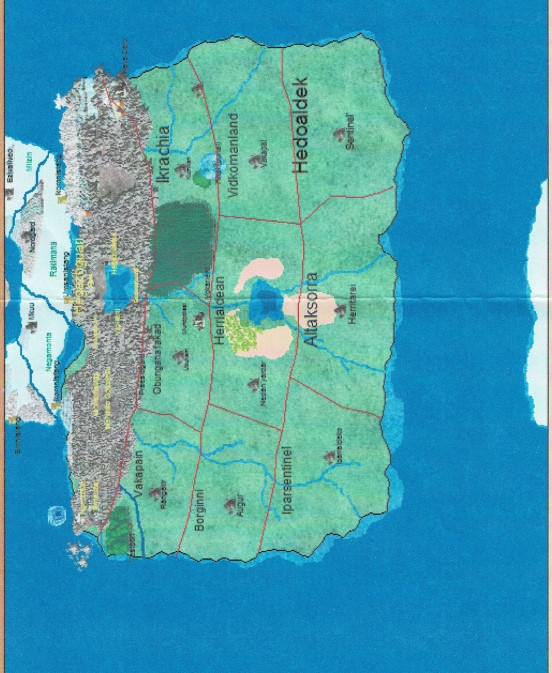
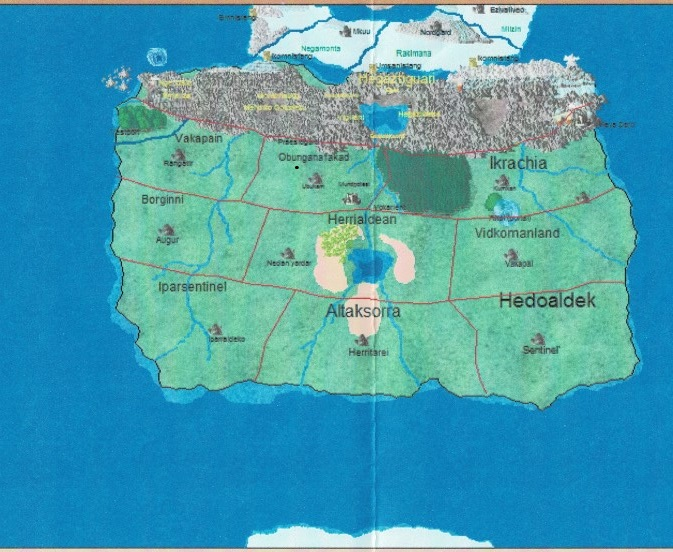
фввув ьфз

diff --git a/index.html b/index.html
@@ -24,6 +24,7 @@
             <a href="#analogues" class="nav-link">Референсы</a>
             <a href="#conlang" class="nav-link">Искусственные языки</a>
             <a href="#metal-opera" class="nav-link">Метал-опера</a>
+            <a href="#world-map" class="nav-link">Карта</a>
             <a href="#author" class="nav-link">Автор и контакты</a>
         </div>
         <div class="hamburger" id="hamburger">
@@ -66,7 +67,7 @@
         <div class="annotation">
             <div class="annotation-content">
                 <p class="annotation-text">
-                    <span class="annotation-highlight">Мир из рукописи затравленной заики Гелены ожил.</span>
+                    <span class="annotation-highlight">Мир из рукописи затравленной заики Гелены ожил</span>
                 </p>
                 
                 <p class="annotation-text">
@@ -94,7 +95,7 @@
             <div class="about-card">
                 <i class="fas fa-map-marked-alt"></i>
                 <h3>Места действия</h3>
-                <p>Выдуманный мир Супериора • Домодедово • Москва</p>
+                <p>Выдуманный мир Супериора • Москва • Домодедово</p>
             </div>
             <div class="about-card">
                 <i class="fas fa-dragon"></i>
@@ -1021,7 +1022,7 @@
                 </div>
             </div>
             <div class="opera-description">
-                <p>В рамках вселенной "Книги Мироздания" я создала полноценную метал-оперу «Чернобог», написанную для вымышленной группы «Розарити». Хотя в первой книге опера упоминается лишь фрагментарно, её сюжет и символика играют решающую роль в развитии событий 4, 5 и 6 книг эпопеи.</p>
+                <p>В рамках вселенной "Книги Мироздания" я создала полноценную метал-оперу «Чернобог» по воссозданному мной по летописям мифу о Чернобоге (1-7 песни, дальше - фантазия), написанную для вымышленной группы «Розарити». Хотя в первой книге опера упоминается лишь фрагментарно, её сюжет и символика играют решающую роль в развитии событий 4, 5 и 6 книг эпопеи.</p>
                 <p>«Чернобог» рассказывает эпическую историю противостояния двух божественных сил — Белобога и Чернобога, олицетворяющих извечную борьбу света и тьмы, созидания и разрушения. Создана по восстановленному мифу.</p>
             </div>
         </div>
@@ -1130,6 +1131,69 @@
     </div>
 </section>
 
+    <section id="world-map" class="map-section">
+        <div class="container">
+            <h2 class="section-title">Супериора</h2>
+            <div class="map-container">
+                <div class="map-header">
+                    <h3 class="map-title">География вымышленного мира</h3>
+                   <!-- <p class="map-subtitle">Исследуйте континенты, королевства и магические земли грани реальности, созданной Книгой Мироздания"</p> -->
+                </div>
+                
+                <div class="map-image-container">
+                    <!-- Замените src на путь к вашей карте -->
+                    <img src="images/map.jpg" alt="Карта мира Книги Мироздания" class="map-image" 
+                         onerror="this.style.display='none'; document.getElementById('map-placeholder').style.display='flex';">
+                    
+                    <!-- Запасной вариант если изображение не загрузится -->
+                    <div id="map-placeholder" class="map-placeholder" style="display: none;">
+                        <i class="fas fa-map"></i>
+                        <span>Карта мира загружается...</span>
+                    </div>
+                </div>
+                
+               <!-- <div class="map-legend">
+                    <div class="legend-item">
+                        <div class="legend-color" style="background: #4CAF50;"></div>
+                        <span class="legend-text">Лесные территории</span>
+                    </div>
+                    <div class="legend-item">
+                        <div class="legend-color" style="background: #FF9800;"></div>
+                        <span class="legend-text">Горные цепи</span>
+                    </div>
+                    <div class="legend-item">
+                        <div class="legend-color" style="background: #2196F3;"></div>
+                        <span class="legend-text">Водные пространства</span>
+                    </div>
+                    <div class="legend-item">
+                        <div class="legend-color" style="background: #9C27B0;"></div>
+                        <span class="legend-text">Магические зоны</span>
+                    </div>
+                </div>
+                
+                <div class="map-features">
+                    <div class="feature-card">
+                        <h4><i class="fas fa-mountain"></i> Континент Супериора</h4>
+                        <p>Центральный континент, где разворачиваются основные события эпопеи. Здесь расположены столицы королевств и древние магические центры.</p>
+                    </div>
+                    <div class="feature-card">
+                        <h4><i class="fas fa-water"></i> Океан Вечности</h4>
+                        <p>Бескрайний океан, разделяющий континенты. Говорят, в его глубинах скрыты древние цивилизации и затонувшие города.</p>
+                    </div>
+                    <div class="feature-card">
+                        <h4><i class="fas fa-tree"></i> Запретный лес</h4>
+                        <p>Древний лес, где обитают мифические существа и хранятся тайны древних богов. Доступ в лес ограничен магическими барьерами.</p>
+                    </div>
+                </div>  -->
+
+
+
+            </div>
+        </div>
+    </section>
+
+
+
     <!-- Об авторе -->
     <section id="author" class="author">
         <div class="container">
@@ -1146,8 +1210,8 @@
                         <ul>
                             <li>Кандидат технических наук и докторант в области космонавтики</li>
                             <li>Senior-разработчик С++, С, Python, Qt, Mathlab, js, html</li>
-                            <li>Этот сайт написала сама на js и html в IDE VSCode<a href="https://github.com/MaryBark/novel-website" target="_blank" rel="noopener noreferrer">Исходники</a></li>
-                            <li>Около 60 научных публикаций. <a href="https://disk.yandex.ru/i/xlqlw3neWDIe2A" target="_blank" rel="noopener noreferrer">Список публикаций</a></li>
+                            <li>Этот сайт написала сама на js и html в IDE VSCode <a href="https://github.com/MaryBark/novel-website" target="_blank" rel="noopener noreferrer">Исходники</a></li>
+                            <li>Около 60 научных публикаций <a href="https://disk.yandex.ru/i/xlqlw3neWDIe2A" target="_blank" rel="noopener noreferrer">Список публикаций</a></li>
                         </ul>
                     </div>
 

diff --git a/style.css b/style.css
@@ -3244,5 +3244,242 @@ input, textarea {
     }
 }
 
-      
+
+        /* Секция карты */
+        .map-section {
+            padding: 80px 0;
+            background: linear-gradient(135deg, #667eea 0%, #764ba2 100%);
+        }
+
+        .map-container {
+            background: white;
+            border-radius: 15px;
+            padding: 30px;
+            box-shadow: 0 20px 40px rgba(0,0,0,0.1);
+            position: relative;
+            overflow: hidden;
+        }
+
+        .map-header {
+            text-align: center;
+            margin-bottom: 30px;
+        }
+
+        .map-title {
+            font-size: 2rem;
+            color: #2c3e50;
+            margin-bottom: 10px;
+        }
+
+        .map-subtitle {
+            font-size: 1.1rem;
+            color: #7f8c8d;
+            max-width: 600px;
+            margin: 0 auto;
+        }
+
+        .map-image-container {
+            position: relative;
+            border-radius: 10px;
+            overflow: hidden;
+            box-shadow: 0 10px 30px rgba(0,0,0,0.2);
+            background: #f8f9fa;
+            min-height: 400px;
+            display: flex;
+            align-items: center;
+            justify-content: center;
+        }
+
+        .map-image {
+            width: 100%;
+            height: auto;
+            display: block;
+            transition: transform 0.3s ease;
+        }
+
+        .map-image:hover {
+            transform: scale(1.02);
+        }
+
+        .map-placeholder {
+            width: 100%;
+            height: 400px;
+            background: linear-gradient(45deg, #e0e0e0, #f5f5f5);
+            display: flex;
+            flex-direction: column;
+            align-items: center;
+            justify-content: center;
+            color: #7f8c8d;
+            font-size: 1.1rem;
+        }
+
+        .map-placeholder i {
+            font-size: 3rem;
+            margin-bottom: 15px;
+            color: #bdc3c7;
+        }
+
+        .map-legend {
+            display: flex;
+            justify-content: center;
+            flex-wrap: wrap;
+            gap: 20px;
+            margin-top: 25px;
+            padding: 20px;
+            background: #f8f9fa;
+            border-radius: 8px;
+        }
+
+        .legend-item {
+            display: flex;
+            align-items: center;
+            gap: 8px;
+        }
+
+        .legend-color {
+            width: 20px;
+            height: 20px;
+            border-radius: 4px;
+        }
+
+        .legend-text {
+            font-size: 0.9rem;
+            color: #2c3e50;
+        }
+
+        .map-features {
+            display: grid;
+            grid-template-columns: repeat(auto-fit, minmax(250px, 1fr));
+            gap: 20px;
+            margin-top: 30px;
+        }
+
+        .feature-card {
+            background: white;
+            padding: 20px;
+            border-radius: 8px;
+            border-left: 4px solid #e94560;
+            box-shadow: 0 5px 15px rgba(0,0,0,0.08);
+        }
+
+        .feature-card h4 {
+            color: #2c3e50;
+            margin-bottom: 10px;
+            display: flex;
+            align-items: center;
+            gap: 10px;
+        }
+
+        .feature-card h4 i {
+            color: #e94560;
+        }
+
+        .feature-card p {
+            color: #7f8c8d;
+            line-height: 1.5;
+        }
+
+        /* Адаптивность для мобильных устройств */
+        @media (max-width: 768px) {
+            .map-section {
+                padding: 40px 0;
+            }
+            
+            .section-title {
+                font-size: 2rem;
+                margin-bottom: 30px;
+            }
+            
+            .map-container {
+                padding: 20px;
+                margin: 0 10px;
+            }
+            
+            .map-title {
+                font-size: 1.6rem;
+            }
+            
+            .map-subtitle {
+                font-size: 1rem;
+            }
+            
+            .map-image-container {
+                min-height: 300px;
+            }
+            
+            .map-placeholder {
+                height: 300px;
+                font-size: 1rem;
+            }
+            
+            .map-placeholder i {
+                font-size: 2.5rem;
+            }
+            
+            .map-legend {
+                flex-direction: column;
+                align-items: center;
+                gap: 15px;
+            }
+            
+            .map-features {
+                grid-template-columns: 1fr;
+            }
+        }
+
+        @media (max-width: 480px) {
+            .container {
+                padding: 0 15px;
+            }
+            
+            .section-title {
+                font-size: 1.8rem;
+            }
+            
+            .map-container {
+                padding: 15px;
+            }
+            
+            .map-title {
+                font-size: 1.4rem;
+            }
+            
+            .map-image-container {
+                min-height: 250px;
+            }
+            
+            .map-placeholder {
+                height: 250px;
+                font-size: 0.9rem;
+            }
+            
+            .map-placeholder i {
+                font-size: 2rem;
+            }
+        }
+
+        /* Анимации */
+        @keyframes fadeInUp {
+            from {
+                opacity: 0;
+                transform: translateY(30px);
+            }
+            to {
+                opacity: 1;
+                transform: translateY(0);
+            }
+        }
+
+        .map-container {
+            animation: fadeInUp 0.8s ease-out;
+        }
+
+        .feature-card {
+            animation: fadeInUp 0.8s ease-out;
+            animation-fill-mode: both;
+        }
+
+        .feature-card:nth-child(1) { animation-delay: 0.2s; }
+        .feature-card:nth-child(2) { animation-delay: 0.4s; }
+        .feature-card:nth-child(3) { animation-delay: 0.6s; }
        
